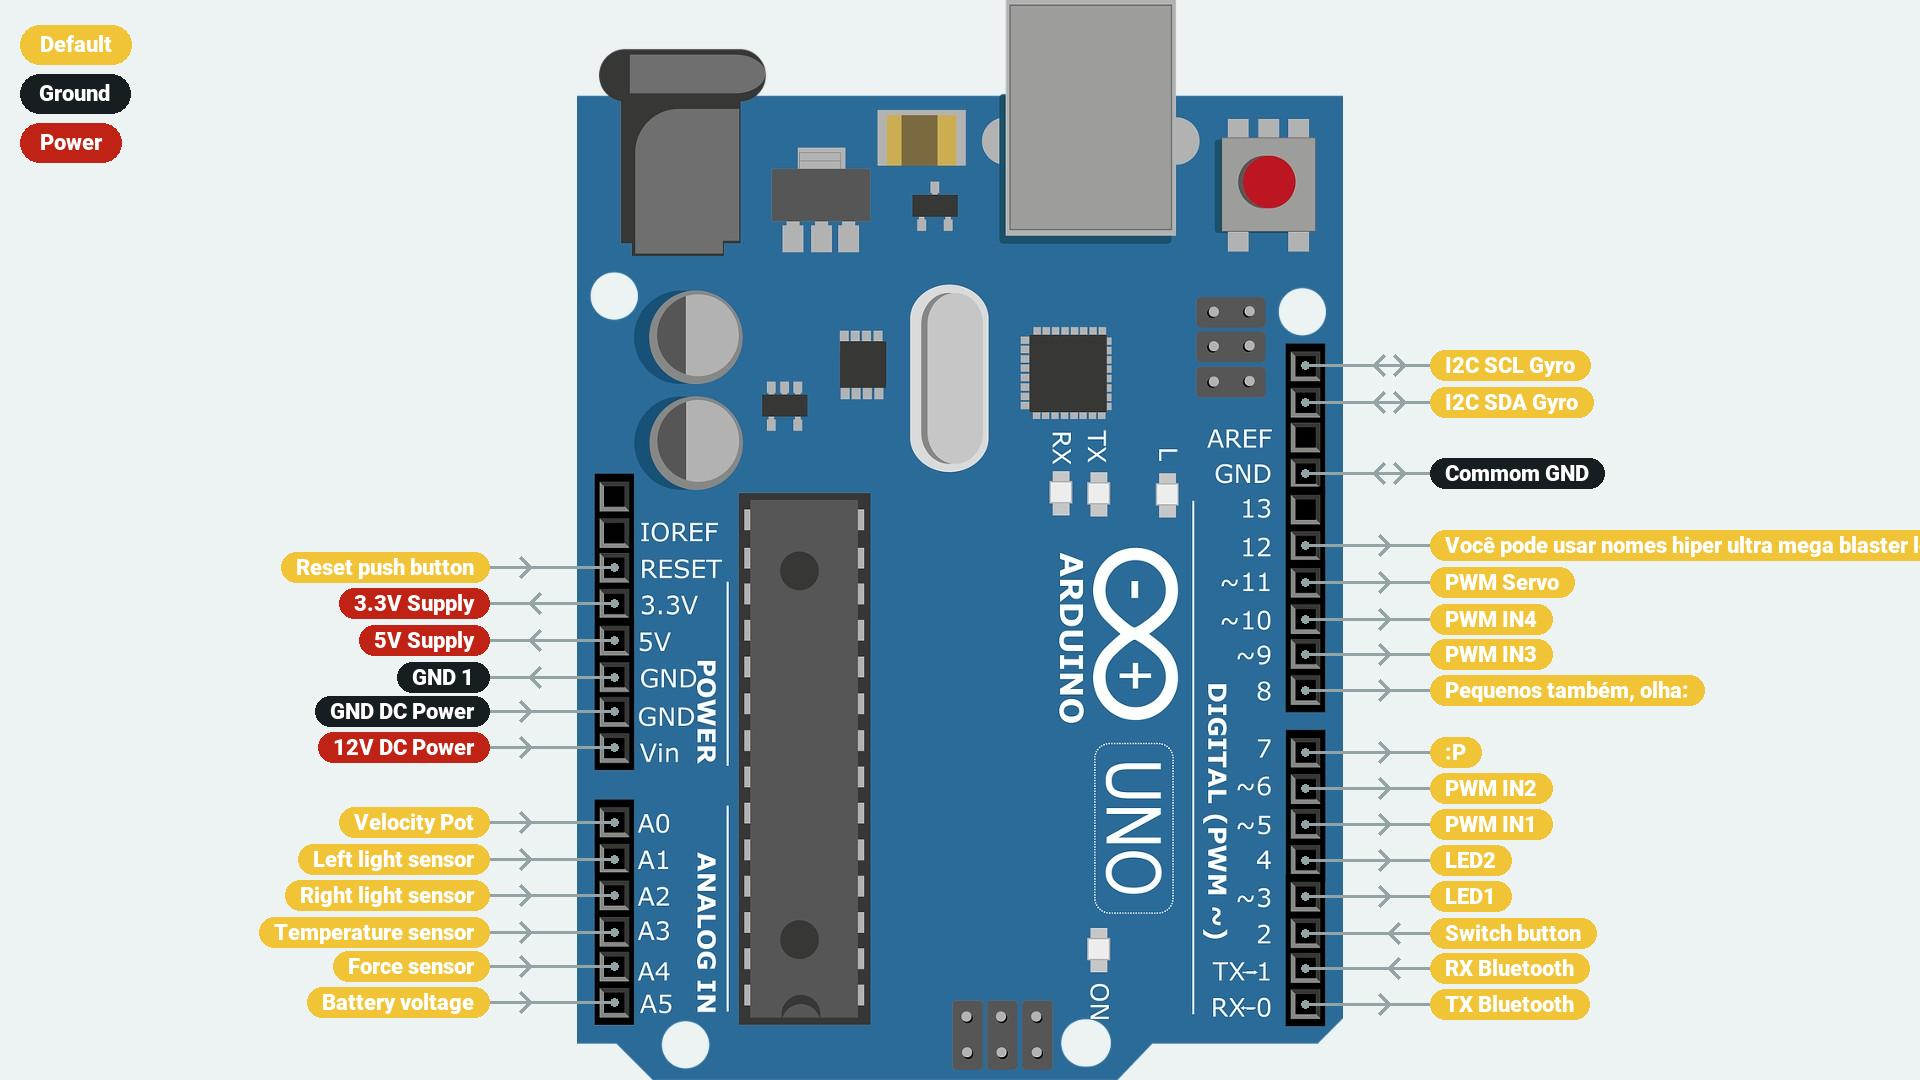
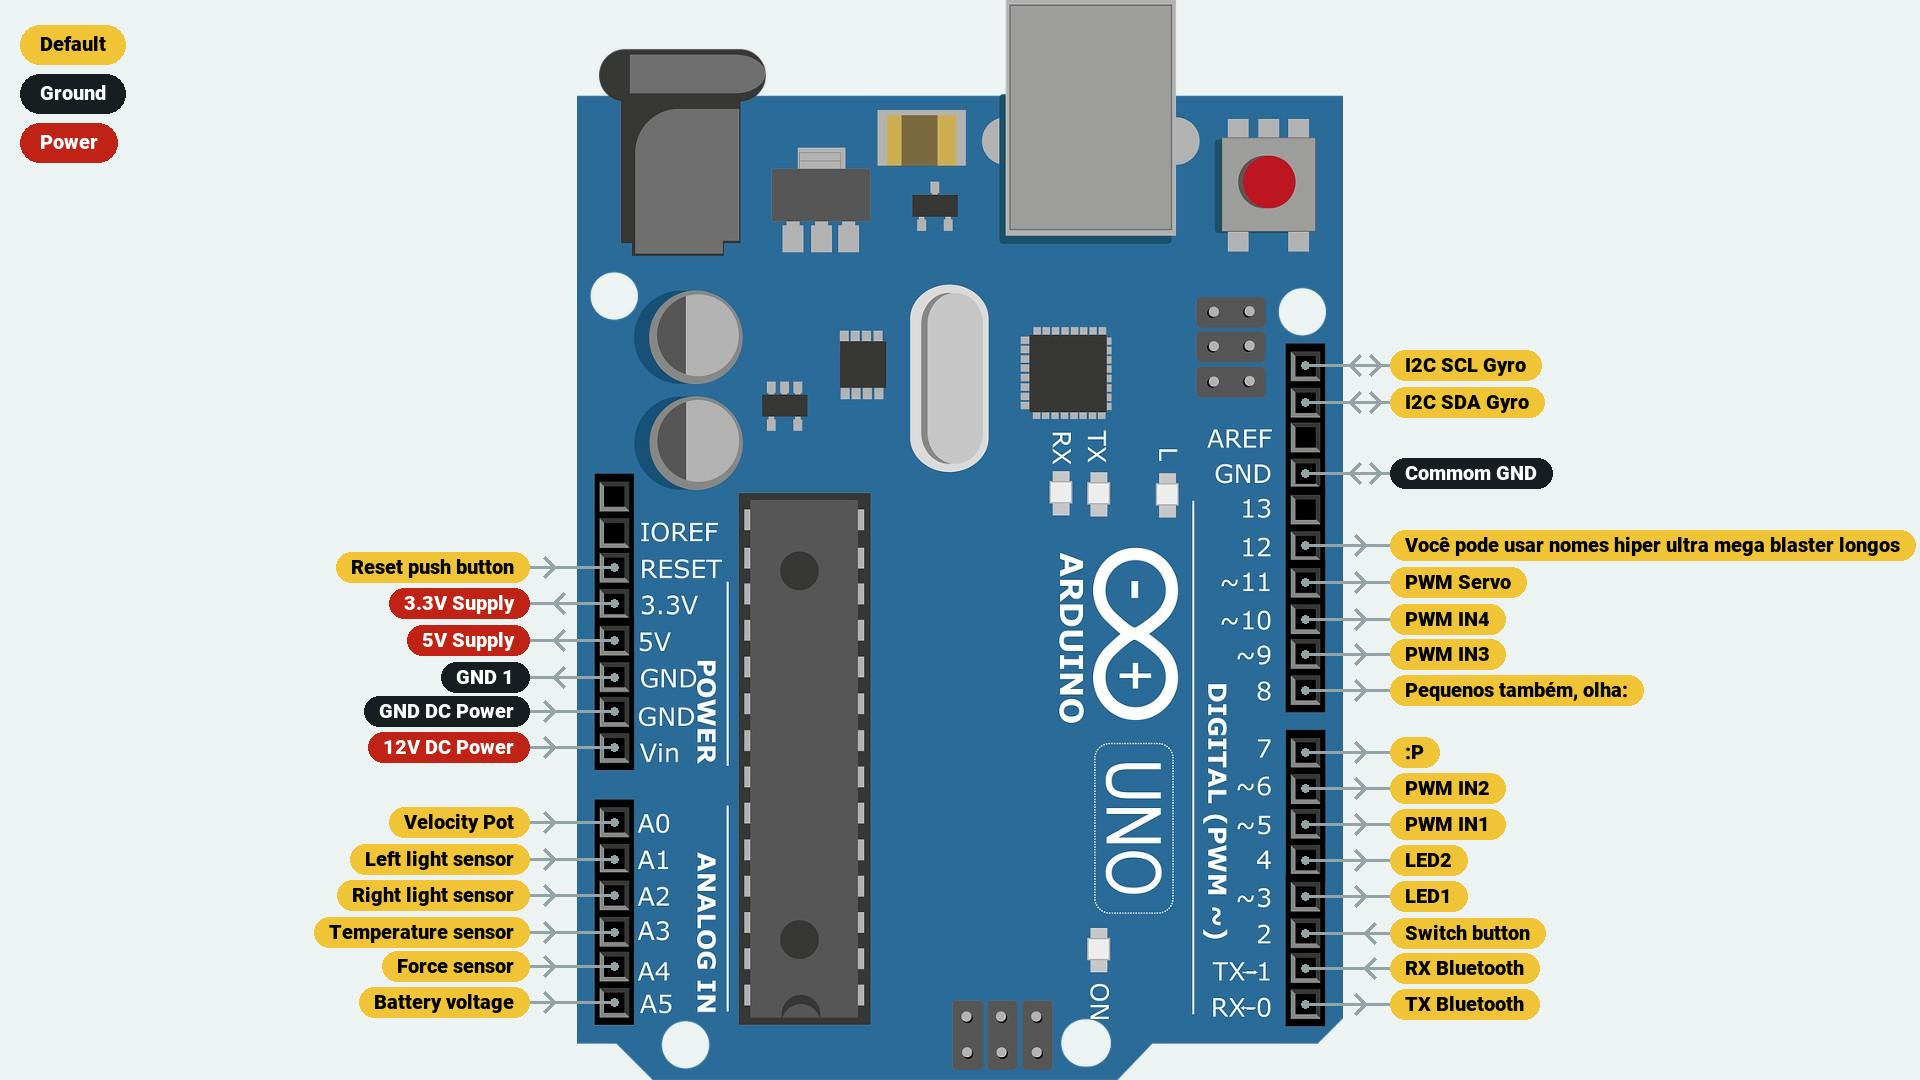
add: color legend and complete optional settings

diff --git a/src/board.py b/src/board.py
@@ -27,21 +27,51 @@ class Sizes:
         self.name_border_radius = int(names_dict.get("BorderRadius"))
         self.font = int(names_dict.get("Font"))
 
+    def load_settings(self, sizes_dict):
+        connections_dict = sizes_dict.get("Connections")
+        names_dict = sizes_dict.get("Names")
+
+        if connections_dict is not None:
+            self.connection_radius = int(
+                connections_dict.get("Radius", self.connection_radius)
+            )
+            self.connection_size = int(
+                connections_dict.get("Size", self.connection_size)
+            )
+            self.connection_width = int(
+                connections_dict.get("Width", self.connection_width)
+            )
+
+        if names_dict is not None:
+            self.name_height = int(
+                names_dict.get("Height", self.name_height)
+            )
+            self.name_border = int(
+                names_dict.get("Border", self.name_border)
+            )
+            self.name_border_radius = int(
+                names_dict.get("BorderRadius", self.name_border_radius)
+            )
+            self.font = int(
+                names_dict.get("Font", self.font)
+            )
+
 
 class Board:
     def __init__(self, name: str, json_file: str):
         self.name = name
         self.__dict__ = json.load(open(json_file, encoding='utf-8')).get(name)
 
-        self.settings = self.__dict__.get('Settings')
+        standard = self.__dict__.get('Settings')
 
-        self.image_path = self.settings.get('ImagePath')
-        self.font_path = self.settings.get('FontPath')
-        self.colors = self.settings.get('Colors')
-        self.sizes = Sizes(self.settings.get('Sizes'))
+        self.image_path = standard.get('ImagePath')
+        self.font_path = standard.get('FontPath')
+        self.colors = standard.get('Colors')
+        self.sizes = Sizes(standard.get('Sizes'))
 
         self.ports = self.__dict__.get('Ports')
         self.connections = []
+        self.used_types = []
 
     def load_settings(self, settings):
         if settings is None:
@@ -50,5 +80,19 @@ class Board:
         self.image_path = settings.get('ImagePath', self.image_path)
         self.font_path = settings.get('FontPath', self.font_path)
 
-        self.colors = settings.get('Colors', self.colors)
-        self.sizes = Sizes(settings.get('Sizes', self.sizes.__dict__))
+        colors = settings.get('Colors', self.colors)
+
+        self.colors['Connections'] = colors.get(
+            'Connections', self.colors.get('Connections')
+        )
+
+        portTypes = colors.get('PortTypes', self.colors.get('PortTypes'))
+        for item, value in portTypes.items():
+            bg = value.get('Background')
+            text = value.get('Text')
+            self.colors['PortTypes'].update({item: {'Background': bg, 'Text': text}})
+
+        sizes = settings.get('Sizes', self.sizes.__dict__)
+        self.sizes.load_settings(sizes)
+
+

diff --git a/src/draw.py b/src/draw.py
@@ -66,7 +66,7 @@ class Draw:
         '''
         port_position = self.ports.get(connection_to_draw.port)
         x, y = int(port_position.get('x')), int(port_position.get('y'))
-        connection_color = tuple(self.board.colors.get('Connection'))
+        connection_color = tuple(self.board.colors.get('Connections'))
 
         right_side = x > self.img.width/2
 
@@ -174,6 +174,58 @@ class Draw:
             self.connection(connection_to_draw)
             self.name(connection_to_draw)
             self.board.connections.append(connection_to_draw.__dict__)
+            self.board.types_used.append(connection_to_draw.type)
         except Exception as e:
             print('Erro ao desenhar a conexão: ', connection_to_draw.__dict__)
             print(e)
+
+    def color_legend(self):
+        '''
+        Desenha uma paleta de cores no canto superior esquerdo
+        '''
+
+        colors = self.colors.get('PortTypes')
+
+        x = 40
+        y = 25
+
+        draw = ImageDraw.Draw(self.img)
+
+        for name, info in colors.items():
+            if name not in self.board.used_types:
+                continue
+
+            bg_color = tuple(info.get('Background'))
+            text_color = tuple(info.get('Text'))
+
+            legend_font = self.font
+            legend_font.size = legend_font.size*1.3
+
+            height = self.sizes.name_height*1.3
+            width = self.font.getlength(name)
+            border = self.sizes.name_border*1.3
+            radius = self.sizes.name_border_radius*1.3
+
+            init_x = x
+            end_x = init_x + width
+
+            draw.rounded_rectangle(
+                (
+                    init_x - border,
+                    y,
+                    end_x + border,
+                    y+height
+                ),
+                radius=radius,
+                fill=bg_color
+            )
+
+            draw.text(
+                (init_x+width/2, y+height/2),
+                name,
+                fill=text_color,
+                font=legend_font,
+                anchor='mm'
+            )
+
+            y += height + 10

diff --git a/src/main.py b/src/main.py
@@ -3,7 +3,7 @@ import json
 from draw import Draw
 from board import Board, Connection
 
-user = json.load(open('../data/example.json', encoding='utf-8'))
+user = json.load(open('../examples/styles.json', encoding='utf-8'))
 board = user.get('Board')
 settings = user.get('Settings')
 connections = user.get('Connections')
@@ -17,4 +17,5 @@ for port, details in connections.items():
     connection = Connection({port: details})
     drawing.port(connection)
 
-drawing.img.save('../data/example.jpg')
+drawing.color_legend()
+drawing.img.save('../examples/styles.jpg')

diff --git a/README.md b/README.md
@@ -2,8 +2,11 @@
 Um criador de pinout do arduino para os seus projetos :)
 
 # Exemplo
-Gerado com o [exemplo](./data/example.json)
-![Exemplo](./data/example.jpg)
+Gerado com o [exemplo](./examples/example.json)
+![Exemplo](./examples/example.jpg)
 ---
-Gerado com o [allPorts](./data/allPorts.json)
-![Exemplo](./data/allPorts.jpg)
+Gerado com o [allPorts](./examples/allPorts.json)
+![Exemplo-allPorts](./examples/allPorts.jpg)
+---
+Gerado com o [styles](./examples/styles.json)
+![Exemplo-styles](./examples/styles.jpg)
